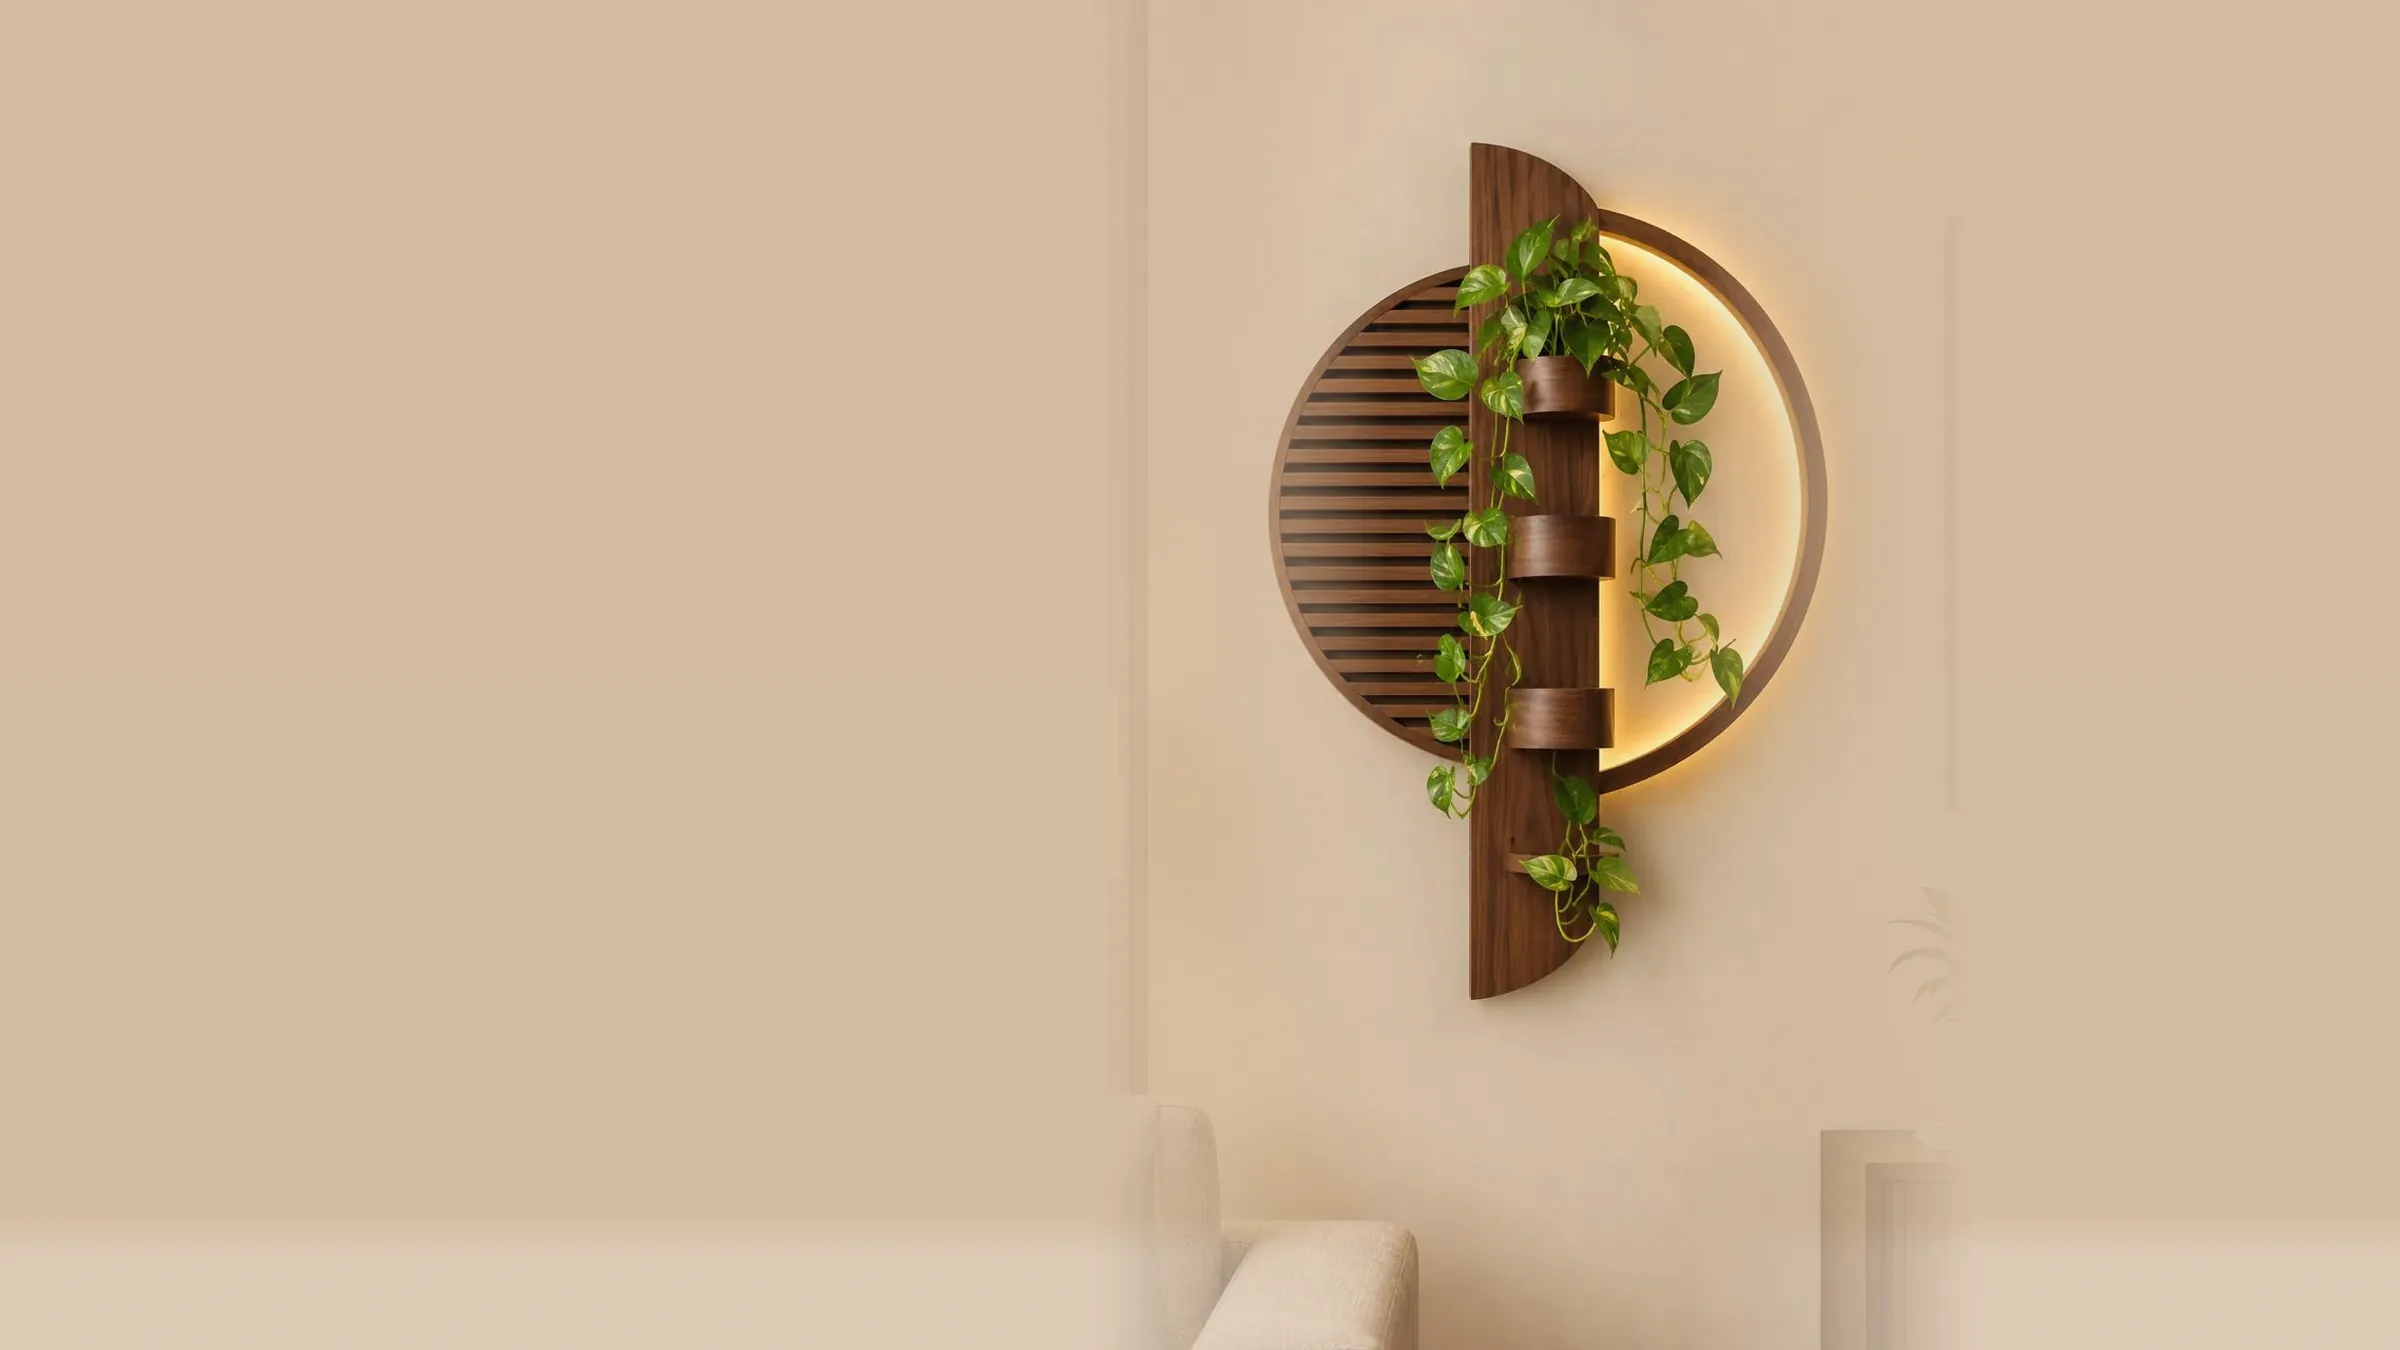
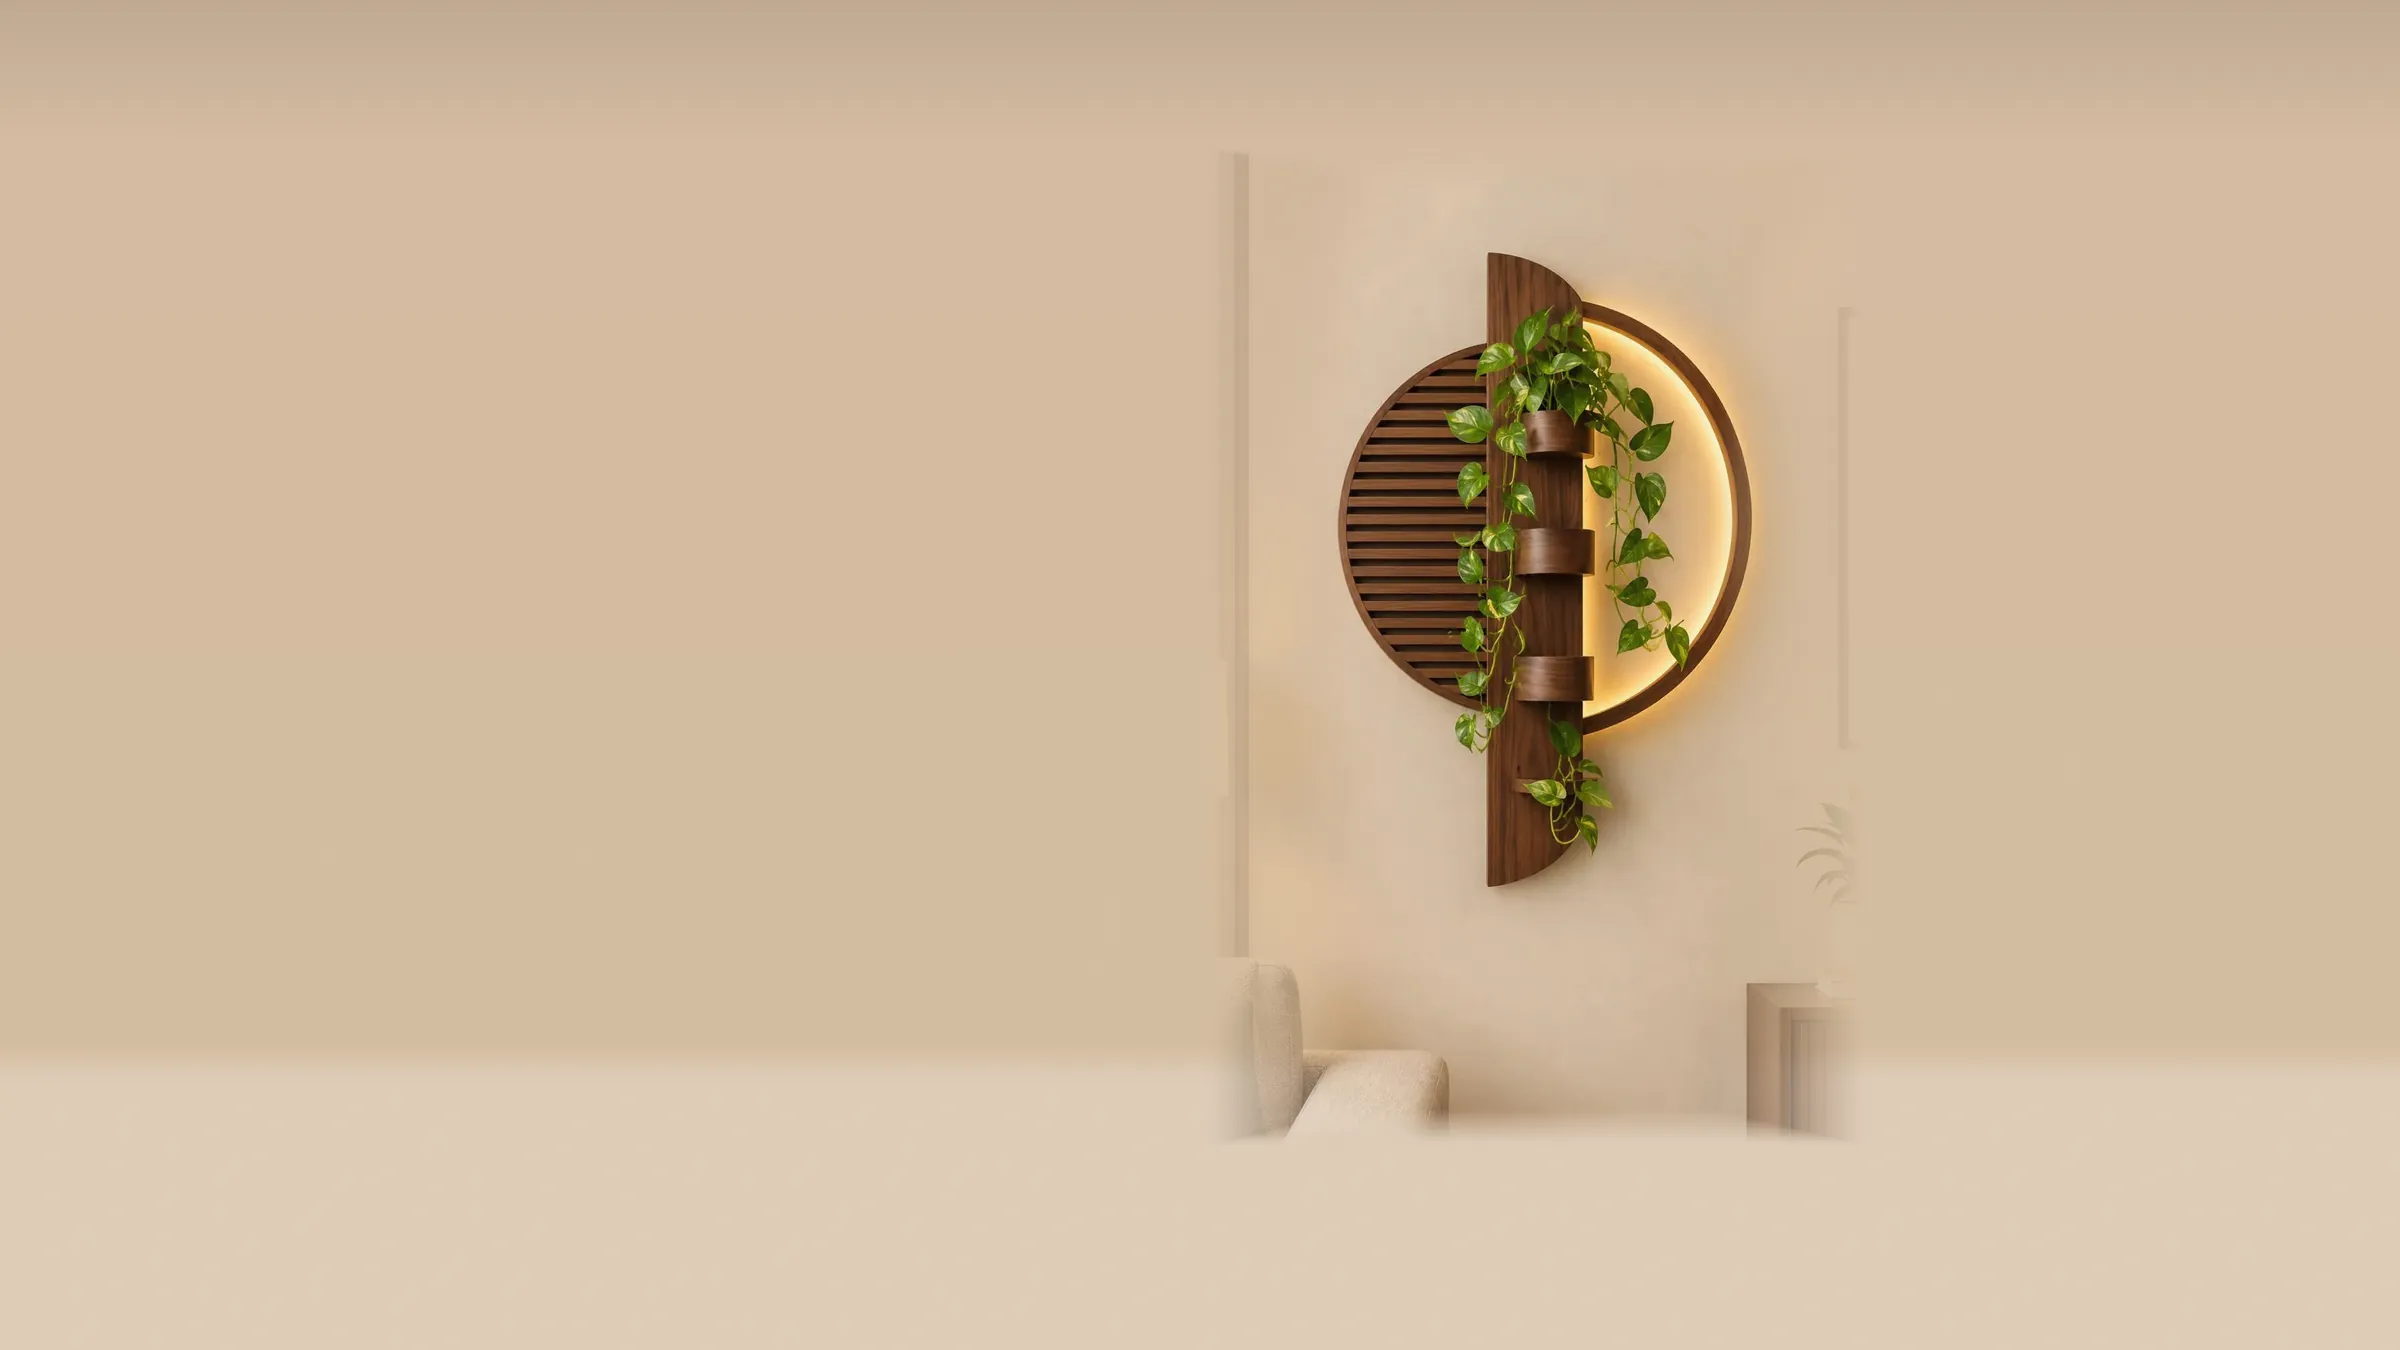
feat(frontend): hero in Cormorant Garamond with a fuller headline, pieces always seen whole

Changed region(s): [[0.5312, 0.0933, 0.7812, 0.7467], [0.4375, 0.7156, 0.8438, 1.0], [0.5625, 0.0, 0.5938, 0.0311]]

diff --git a/frontend/src/features/landing/hero.tsx b/frontend/src/features/landing/hero.tsx
@@ -13,6 +13,9 @@ import { HeroScenes, type Scene } from './hero-scenes.client';
 /* Scenes cross-fade with a slow drift; the words rise in one after another. Motion only when it
    is welcome. */
 const HERO_CSS = `
+/* One face for the whole hero (Latin): the logo's Cormorant Garamond. Bangla keeps its fonts. */
+html[lang='en'] .hero-root, html[lang='en'] .hero-root * { font-family: var(--font-cormorant-wordmark), Georgia, serif; }
+html[lang='en'] .hero-root em { font-family: var(--font-cormorant-italic), var(--font-cormorant-wordmark), Georgia, serif; }
 .scene { transition: opacity 1.2s cubic-bezier(.4,0,.2,1); }
 .scene-off { opacity: 0; }
 .scene-on { opacity: 1; }
@@ -68,19 +71,22 @@ export function Hero({
       <style>{HERO_CSS}</style>
       <HeroScenes scenes={scenes} labels={l.heroWall}>
         <Container className="pb-4 lg:pb-24">
-          <div className="max-w-[36rem] space-y-6">
-            <Eyebrow className="hero-rise text-ivory/85" style={rise(0)}>
+          <div className="max-w-[40rem] space-y-6">
+            <Eyebrow
+              className="hero-rise text-[0.8rem] font-semibold tracking-[0.3em] text-ivory/90"
+              style={rise(0)}
+            >
               {l.heroEyebrow}
             </Eyebrow>
             <h1
-              className="hero-rise font-display text-[clamp(2.6rem,1.6rem+3.6vw,5rem)] leading-[1.02] tracking-[-0.02em] text-balance [:lang(bn)_&]:text-[clamp(2.2rem,1.5rem+2.6vw,3.8rem)] [:lang(bn)_&]:leading-[1.25] [:lang(bn)_&]:tracking-normal"
+              className="hero-rise max-w-[22ch] font-display text-[clamp(2.3rem,1.3rem+2.7vw,4rem)] font-medium leading-[1.06] tracking-[-0.01em] text-balance [:lang(bn)_&]:text-[clamp(1.9rem,1.3rem+1.9vw,3rem)] [:lang(bn)_&]:leading-[1.25] [:lang(bn)_&]:tracking-normal"
               style={rise(1)}
             >
               {dict.home.heroHeading}{' '}
               <em className="text-glow [:lang(bn)_&]:not-italic">{dict.home.heroHeadingAccent}</em>
             </h1>
             <p
-              className="hero-rise max-w-md text-base leading-relaxed text-ivory/90 sm:text-lg"
+              className="hero-rise max-w-md text-[1.15rem] font-medium leading-relaxed text-ivory/90 sm:text-[1.25rem]"
               style={rise(2)}
             >
               {dict.home.heroSubline}
@@ -93,7 +99,7 @@ export function Hero({
                 href={href(lang, '/shop')}
                 variant="light"
                 size="lg"
-                className="group gap-3"
+                className="group gap-3 text-[0.85rem] font-semibold tracking-[0.22em]"
               >
                 {dict.home.explore}
                 <ArrowRight
@@ -102,7 +108,11 @@ export function Hero({
                 />
               </ButtonLink>
               {lead ? (
-                <ButtonLink href={href(lang, `/products/${lead.slug}`)} variant="linkLight">
+                <ButtonLink
+                  href={href(lang, `/products/${lead.slug}`)}
+                  variant="linkLight"
+                  className="text-[0.85rem] font-semibold tracking-[0.22em]"
+                >
                   {dict.home.cta}
                 </ButtonLink>
               ) : null}

diff --git a/frontend/src/features/landing/hero-scenes.client.tsx b/frontend/src/features/landing/hero-scenes.client.tsx
@@ -92,7 +92,7 @@ export function HeroScenes({
   return (
     <div
       ref={root}
-      className="relative isolate flex flex-col justify-end overflow-hidden bg-espresso pt-[46svh] text-ivory lg:h-[calc(100svh-11.5rem)] lg:min-h-[34rem] lg:max-h-[47.5rem] lg:justify-center lg:pt-0"
+      className="relative isolate flex flex-col justify-end overflow-hidden bg-espresso pt-[46svh] text-ivory lg:h-[calc(100svh-11.5rem)] lg:min-h-[40rem] lg:max-h-[47.5rem] lg:justify-center lg:pt-0"
       onPointerEnter={(e) => e.pointerType === 'mouse' && setHeld(true)}
       onPointerLeave={() => setHeld(false)}
       onFocus={() => setHeld(true)}
@@ -185,22 +185,22 @@ export function HeroScenes({
 
         <div className="flex items-end justify-between gap-6 lg:justify-end">
           <div aria-live="polite" className="min-w-0 lg:text-right">
-            <p className="text-[0.62rem] font-medium uppercase tracking-eyebrow text-ivory/75 [:lang(bn)_&]:text-[0.78rem] [:lang(bn)_&]:tracking-normal">
+            <p className="text-[0.72rem] font-semibold uppercase tracking-eyebrow text-ivory/80 [:lang(bn)_&]:text-[0.78rem] [:lang(bn)_&]:tracking-normal">
               {labels.now}
             </p>
             <p
               key={scene.src}
-              className="scene-caption mt-1.5 truncate font-display text-xl leading-tight sm:text-2xl"
+              className="scene-caption mt-1.5 truncate font-display text-[1.5rem] font-medium leading-tight sm:text-[1.75rem]"
             >
               {scene.name}
             </p>
-            <p className="mt-1 flex items-center gap-3 text-[0.8rem] text-ivory/85 lg:justify-end">
+            <p className="mt-1 flex items-center gap-3 text-[0.95rem] font-medium text-ivory/90 lg:justify-end">
               {scene.price ? <span className="tabular-nums">{scene.price}</span> : null}
               <Link
                 href={scene.href}
                 className="group inline-flex items-center gap-1.5 font-medium uppercase tracking-[0.16em] text-ivory [:lang(bn)_&]:normal-case [:lang(bn)_&]:tracking-normal"
               >
-                <span className="link-underline text-[0.68rem] [:lang(bn)_&]:text-[0.85rem]">
+                <span className="link-underline text-[0.78rem] font-semibold [:lang(bn)_&]:text-[0.85rem]">
                   {labels.view}
                 </span>
                 <ArrowRight

diff --git a/frontend/src/i18n/dictionaries/bn.ts b/frontend/src/i18n/dictionaries/bn.ts
@@ -33,11 +33,11 @@ export const bn: Dictionary = {
     copyright: '© ২০২৬ Zelqune। সব অধিকার সংরক্ষিত।',
   },
   home: {
-    heroHeading: 'আপনার দেয়ালে',
-    heroHeadingAccent: 'প্রাণ আনুন।',
+    heroHeading: 'হাতে গড়া কাঠ আর নরম আলো, আপনার ঘরের প্রতিটি দেয়ালকে বদলে দিতে এক',
+    heroHeadingAccent: 'নিঃশব্দ গল্পে।',
     explore: 'সংগ্রহ দেখুন',
     heroSubline:
-      'হাতে গড়া কাঠের নকশা, যত্নে ভাবা শেলফ আর নরম উষ্ণ আলো, আপনার প্রতিদিনের ঘরে উষ্ণতা আনতে।',
+      'ভাস্কর্যধর্মী শেলফ, প্যানেল আর আলো, ঢাকায় অর্ডারে বানানো, সারা বাংলাদেশে পৌঁছে দেওয়া।',
     cta: 'প্রি-অর্ডার করুন',
     benefits: [
       { title: 'হাতে বানানো', text: 'প্রতিটা প্যানেল অর্ডার পাওয়ার পর যত্ন নিয়ে বানানো হয়।' },

diff --git a/frontend/src/app/[lang]/layout.tsx b/frontend/src/app/[lang]/layout.tsx
@@ -26,12 +26,23 @@ const bodoniItalic = Bodoni_Moda({
   display: 'swap',
   preload: false,
 });
-// The wordmark keeps the owner's logo lettering (Cormorant Garamond capitals), one weight only.
+// The wordmark keeps the owner's logo lettering (Cormorant Garamond capitals); the home hero is
+// set in the same face.
 const wordmark = Cormorant_Garamond({
   subsets: ['latin'],
-  weight: '500',
+  weight: ['400', '500', '600'],
   variable: '--font-cormorant-wordmark',
   display: 'swap',
+});
+// The hero is set entirely in the logo's face; its italic for the gold words (below the fold of
+// the critical path: not preloaded).
+const wordmarkItalic = Cormorant_Garamond({
+  subsets: ['latin'],
+  weight: '500',
+  style: 'italic',
+  variable: '--font-cormorant-italic',
+  display: 'swap',
+  preload: false,
 });
 const jost = Jost({
   subsets: ['latin'],
@@ -74,7 +85,7 @@ export default async function RootLayout({
     <html
       lang={lang}
       suppressHydrationWarning
-      className={`${bodoni.variable} ${bodoniItalic.variable} ${wordmark.variable} ${jost.variable}`}
+      className={`${bodoni.variable} ${bodoniItalic.variable} ${wordmark.variable} ${wordmarkItalic.variable} ${jost.variable}`}
     >
       <head>
         {/* The visitor's saved theme, applied before the first paint (no flash). */}

diff --git a/frontend/src/i18n/dictionaries/en.ts b/frontend/src/i18n/dictionaries/en.ts
@@ -35,11 +35,11 @@ export const en = {
     copyright: '© 2026 Zelqune. All rights reserved.',
   },
   home: {
-    heroHeading: 'Make your walls feel',
-    heroHeadingAccent: 'alive.',
+    heroHeading: 'Handcrafted wood and gentle light, made to turn every wall of your home into a',
+    heroHeadingAccent: 'quiet story.',
     explore: 'Explore the collection',
     heroSubline:
-      'Handcrafted wood forms, thoughtful shelving and a soft amber glow, made to bring warmth to your everyday spaces.',
+      'Sculptural shelves, panels and lights, made to order in Dhaka and delivered across Bangladesh.',
     cta: 'Pre-order now',
     benefits: [
       { title: 'Handcrafted', text: 'every panel is made with care after you order.' },

diff --git a/frontend/src/features/layout/header.tsx b/frontend/src/features/layout/header.tsx
@@ -77,7 +77,7 @@ export function Header({
           </Link>
 
           <div className="flex items-center justify-end gap-0.5 lg:gap-5 xl:gap-8">
-            <ul className="hidden items-center gap-6 lg:flex xl:gap-9">
+            <ul className="hidden items-center gap-6 min-[1360px]:flex min-[1360px]:gap-9">
               {services.map((l) => (
                 <li key={l.href}>
                   <ActiveLink {...l} />

diff --git a/CHANGELOG.md b/CHANGELOG.md
@@ -8,12 +8,16 @@ uses [Semantic Versioning](https://semver.org/) once it ships.
 
 ### Changed
 - Home hero follows the owner's reference: full-bleed, warm room scenes with one of our pieces
-  lit on the wall (the owner's renders widened to 2400×1350 by continuing each photo's own wall;
-  `public/images/hero`, phone cuts `-1200`), cross-fading with a slow drift every 6 s. The words
-  sit over a warm shade ("Make your walls feel *alive.*", "Explore the collection"); bars and a
-  pause button bottom left, a "Now on the wall" caption with price and link plus square arrows
-  bottom right; swipe on phones, where the scene sits above the words. Pauses on hover and focus,
-  never moves by itself with reduced motion; only the first scene loads up front.
+  lit on the wall (the owner's renders widened to 2400×1350 by continuing each photo's own wall
+  around it, the piece at about three quarters of the height so it is always seen whole;
+  `public/images/hero`, phone cuts `-1200`), cross-fading with a slow drift every 6 s. Set
+  entirely in the logo's Cormorant Garamond: "Handcrafted wood and gentle light, made to turn
+  every wall of your home into a *quiet story.*", "Explore the collection"; bars and a pause
+  button bottom left, a "Now on the wall" caption with price and link plus square arrows bottom
+  right; swipe on phones, where the scene sits above the words. Pauses on hover and focus, never
+  moves by itself with reduced motion; only the first scene loads up front.
+- Header: the Interior Design and Construction links show from 1360px wide (they stay in the
+  menu), so they never collide with the wordmark.
 - Day and night themes: day is the default for everyone (soft cream #F7F1E8 with espresso
   #3B2922 and antique brass; dark bands are espresso coffee, nothing black). Night (Dark Walnut)
   only when the visitor picks it with the sun/moon toggle (header; in the menu on phones); the

diff --git a/docs/copy-bn.md b/docs/copy-bn.md
@@ -15,9 +15,9 @@
 - **কপিরাইট:** © ২০২৬ Zelqune। সব অধিকার সংরক্ষিত।
 
 ## হোম পেজ
-- **হিরো শিরোনাম:** আপনার দেয়ালে *প্রাণ আনুন।* (শেষ অংশ আলাদা রঙে)
+- **হিরো শিরোনাম:** হাতে গড়া কাঠ আর নরম আলো, আপনার ঘরের প্রতিটি দেয়ালকে বদলে দিতে এক *নিঃশব্দ গল্পে।* (শেষ অংশ আলাদা রঙে)
 - **হিরো বোতাম:** সংগ্রহ দেখুন
-- **হিরোর নিচের লাইন:** হাতে গড়া কাঠের নকশা, যত্নে ভাবা শেলফ আর নরম উষ্ণ আলো, আপনার প্রতিদিনের ঘরে উষ্ণতা আনতে।
+- **হিরোর নিচের লাইন:** ভাস্কর্যধর্মী শেলফ, প্যানেল আর আলো, ঢাকায় অর্ডারে বানানো, সারা বাংলাদেশে পৌঁছে দেওয়া।
 - **বোতাম:** প্রি-অর্ডার করুন
 - **তিনটা সুবিধা:**
   - **হাতে বানানো:** প্রতিটা প্যানেল অর্ডার পাওয়ার পর যত্ন নিয়ে বানানো হয়।

diff --git a/docs/copy-en.md b/docs/copy-en.md
@@ -15,9 +15,9 @@
 - **Copyright:** © 2026 Zelqune. All rights reserved.
 
 ## Home
-- **Hero heading:** Make your walls feel *alive.* (the last word set in italic)
+- **Hero heading:** Handcrafted wood and gentle light, made to turn every wall of your home into a *quiet story.* (the last words set in italic)
 - **Hero button:** Explore the collection
-- **Hero subline:** Handcrafted wood forms, thoughtful shelving and a soft amber glow, made to bring warmth to your everyday spaces.
+- **Hero subline:** Sculptural shelves, panels and lights, made to order in Dhaka and delivered across Bangladesh.
 - **Button:** Pre-order now
 - **Three benefits:**
   - **Handcrafted:** every panel is made with care after you order.
